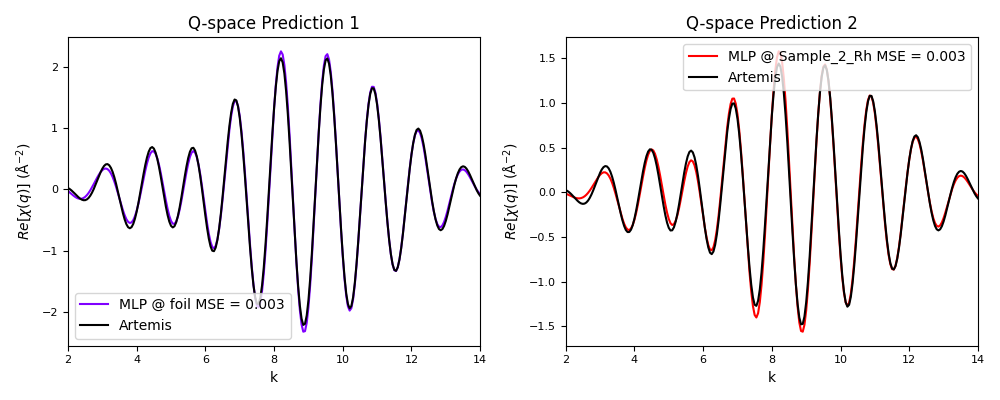
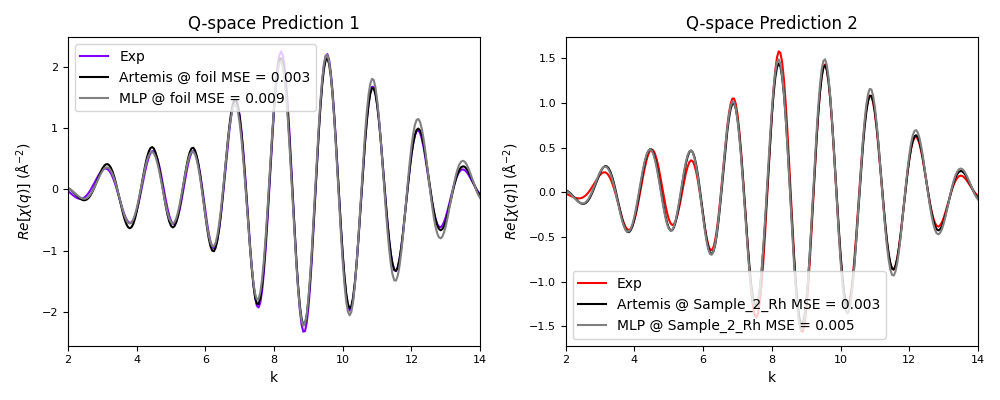
updated core

diff --git a/validation/find_debye_2.py b/validation/find_debye_2.py
@@ -1,0 +1,68 @@
+import numpy as np
+from scipy.integrate import quad
+from scipy.optimize import brentq
+
+def debye_integrand(x):
+    # Integrand for the Debye heat capacity integral
+    # Well-defined as x->0, but let’s rely on quad to handle that.
+    return (x**4 * np.exp(x)) / (np.exp(x) - 1)**2
+
+def heat_capacity(T, Theta_D):
+    # Ensure Theta_D > 0
+    if Theta_D <= 0:
+        # Return a large positive/negative number to indicate no solution here
+        return np.inf
+    
+    R = 8.31446261815324
+    upper_limit = Theta_D / T
+    # If upper_limit is too small (close to 0), integral will be small -> near 0 capacity.
+    integral_val, _ = quad(debye_integrand, 0, upper_limit)
+    return 9 * R * (T / Theta_D)**3 * integral_val
+
+def bracket_root(func, start=1.0, step=10.0, max_tries=1000, lower_bound=1.0):
+    """
+    Attempts to find a sign change starting at `start` and moving upward.
+    Also prevents going below `lower_bound` to avoid zero or negative Theta_D.
+    """
+    if start < lower_bound:
+        start = lower_bound
+
+    # Move upward
+    low = start
+    f_low = func(low)
+    high = start
+    for _ in range(max_tries):
+        high += step
+        f_high = func(high)
+        if f_low * f_high < 0:
+            return low, high
+
+    # Move downward, but not below lower_bound
+    low = start
+    f_low = func(low)
+    high = start
+    for _ in range(max_tries):
+        new_low = low - step
+        if new_low < lower_bound:
+            break  # Don't go below lower_bound
+        low = new_low
+        f_low = func(low)
+        if f_low * f_high < 0:
+            return low, high
+
+    raise ValueError("No sign change found for the function within given steps.")
+
+def find_debye_temp(T, C_target, start_guess=300.0):
+    def func(Theta_D):
+        return heat_capacity(T, Theta_D) - C_target
+
+    a, b = bracket_root(func, start=start_guess)
+    Theta_D_solution = brentq(func, a, b)
+    return Theta_D_solution
+
+if __name__ == "__main__":
+    # Example usage:
+    T = 298.0
+    C_measured = 25.0  # J/(mol·K), example input
+    Theta_D_est = find_debye_temp(T, C_measured, start_guess=300.0)
+    print(f"Estimated Debye Temperature at {T} K: {Theta_D_est:.2f} K")

diff --git a/src/crowpeas/core.py b/src/crowpeas/core.py
@@ -1108,7 +1108,7 @@ class CrowPeas:
             dataset_name = dataset_names[i]
 
             # Load and preprocess data for the current dataset_dir
-            interpolated_chi_k, interpolated_chi_q = self.process_exp_data(self.load_exp_data(dataset_dir))
+            interpolated_chi_k, interpolated_chi_q = self.process_exp_data(self.load_exp_data(dataset_dir)) # this is the exp data in k and q
             interpolated_chi_k = torch.tensor(interpolated_chi_k).unsqueeze(0)
 
             # Normalize the data
@@ -1335,15 +1335,23 @@ class CrowPeas:
 
             interpolated_chi_q = pred['interpolated_chi_q']
             interpolated_artemis = self.build_synth_spectra(pred['artemis_result'])
+            predicted_parameter_array = [pred['predicted_a'], pred['predicted_deltar'], pred['predicted_sigma2'], pred['predicted_e0']]
+            interpolated_nn = self.build_synth_spectra(predicted_parameter_array)
 
-            mse_error = self.get_MSE_error(interpolated_chi_q, interpolated_artemis)
+            mse_error_artemis = self.get_MSE_error(interpolated_artemis, interpolated_chi_q)
+            mse_error_nn = self.get_MSE_error(interpolated_nn,interpolated_chi_q)
+
 
             network_type = self.config["neural_network"]["architecture"]["type"]
 
-            ax.plot(k_grid, interpolated_chi_q, label=f'{network_type} @ {dataset_names[idx]} MSE = {mse_error:.3f}', color=color)
+            ax.plot(k_grid, interpolated_chi_q, color=color, label='Exp')
             ax.plot(
                 k_grid, interpolated_artemis,
-                label='Artemis', color="black"
+                label=f'Artemis @ {dataset_names[idx]} MSE = {mse_error_artemis:.3f}', color="black"
+            )
+            ax.plot(
+                k_grid, interpolated_nn,
+                label=f'{network_type} @ {dataset_names[idx]} MSE = {mse_error_nn:.3f}', color="gray"
             )
             ax.set_xlim(kmin, kmax)
             ax.set_title(f'Q-space Prediction {idx + 1}')

diff --git a/validation/find_debye.py b/validation/find_debye.py
@@ -1,0 +1,31 @@
+import numpy as np
+from scipy.integrate import quad
+from scipy.optimize import fsolve
+
+def debye_integrand(x):
+    # Integrand for the Debye heat capacity integral
+    return (x**4 * np.exp(x)) / (np.exp(x) - 1)**2
+
+def heat_capacity(T, Theta_D):
+    # R: gas constant in J/(mol·K)
+    R = 8.31446261815324
+    # Debye heat capacity equation:
+    # C_V(T) = 9 * R * (T/Theta_D)^3 * ∫_0^{Theta_D/T} [x^4 * exp(x)/(exp(x)-1)^2] dx
+    upper_limit = Theta_D / T
+    integral_val, _ = quad(debye_integrand, 0, upper_limit)
+    return 9 * R * (T / Theta_D)**3 * integral_val
+
+def find_debye_temp(T, C_target, guess=150.0):
+    # Use fsolve to find the Theta_D that gives the measured heat capacity
+    def func(Theta_D):
+        return heat_capacity(T, Theta_D) - C_target
+
+    Theta_D_solution = fsolve(func, guess)[0]
+    return Theta_D_solution
+
+if __name__ == "__main__":
+    # Example usage:
+    T = 298.0
+    C_measured = 25.0  # J/(mol·K), example value
+    Theta_D_est = find_debye_temp(T, C_measured)
+    print(f"Estimated Debye Temperature at {T} K: {Theta_D_est:.2f} K")

diff --git a/validation/eins_val.py b/validation/eins_val.py
@@ -12,6 +12,9 @@ import scipy.constants as const
 
 
 
+
+
+
 # read data from dir
 
 feff_path_file_rh = "/home/nick/Projects/crowpeas/feff/Rhfeff0001.dat"
@@ -87,22 +90,22 @@ plt.plot(theta, sigma2_array_pd, label="Pd", color='black')
 # add predicted theta to plot as red dot
 ss2_nn_rh = 0.0026
 ss2_art_rh = 0.0037
-theta_rh = 350
+theta_rh = 350 * (1/1.27)
 plt.scatter(theta_rh, ss2_nn_rh, color='red', label = "Rh NN")
 
 ss2_nn_au = 0.0080
 ss2_art_au = 0.0080
-theta_au = 124
+theta_au = 178 * (1/1.27)
 plt.scatter(theta_au, ss2_nn_au, color='green', label = "Au NN")
 
 ss2_nn_pt = 0.0041
 ss2_art_pt = 0.0050
-theta_pt = 179
+theta_pt = 225 * (1/1.27)
 plt.scatter(theta_pt, ss2_nn_pt, color='blue', label = "Pt NN")
 
 ss2_nn_pd = 0.0052
 ss2_art_pd = 0.006
-theta_pd = 221
+theta_pd = 275 * (1/1.27)
 plt.scatter(theta_pd, ss2_nn_pd, color='black', label = "Pd NN")
 
 
@@ -127,7 +130,7 @@ plt.title("Sigma^2 vs Theta for Room temp sample")
 
 plt.savefig("sigma2_vs_theta.png")
 
-print(sigma2_array_au[:10], sigma2_array_pt[:10])
+#print(sigma2_array_au[:10], sigma2_array_pt[:10])
 
 
 
